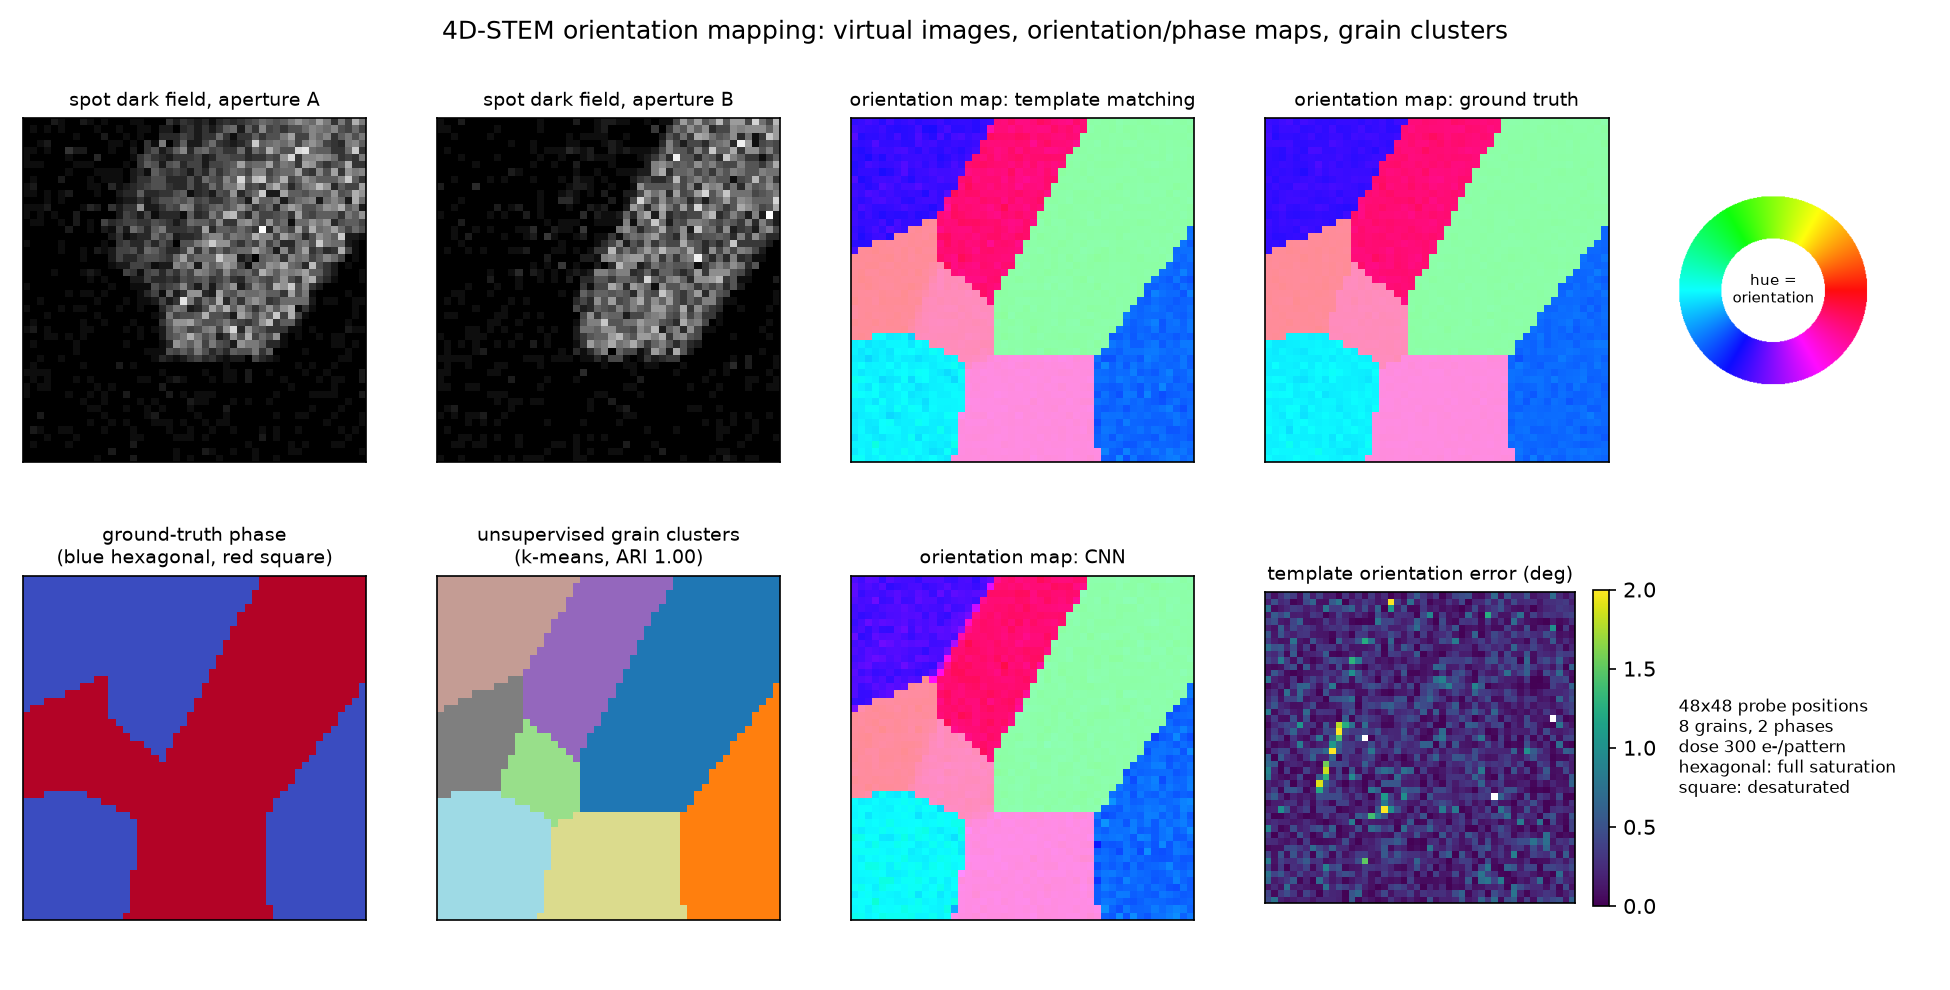
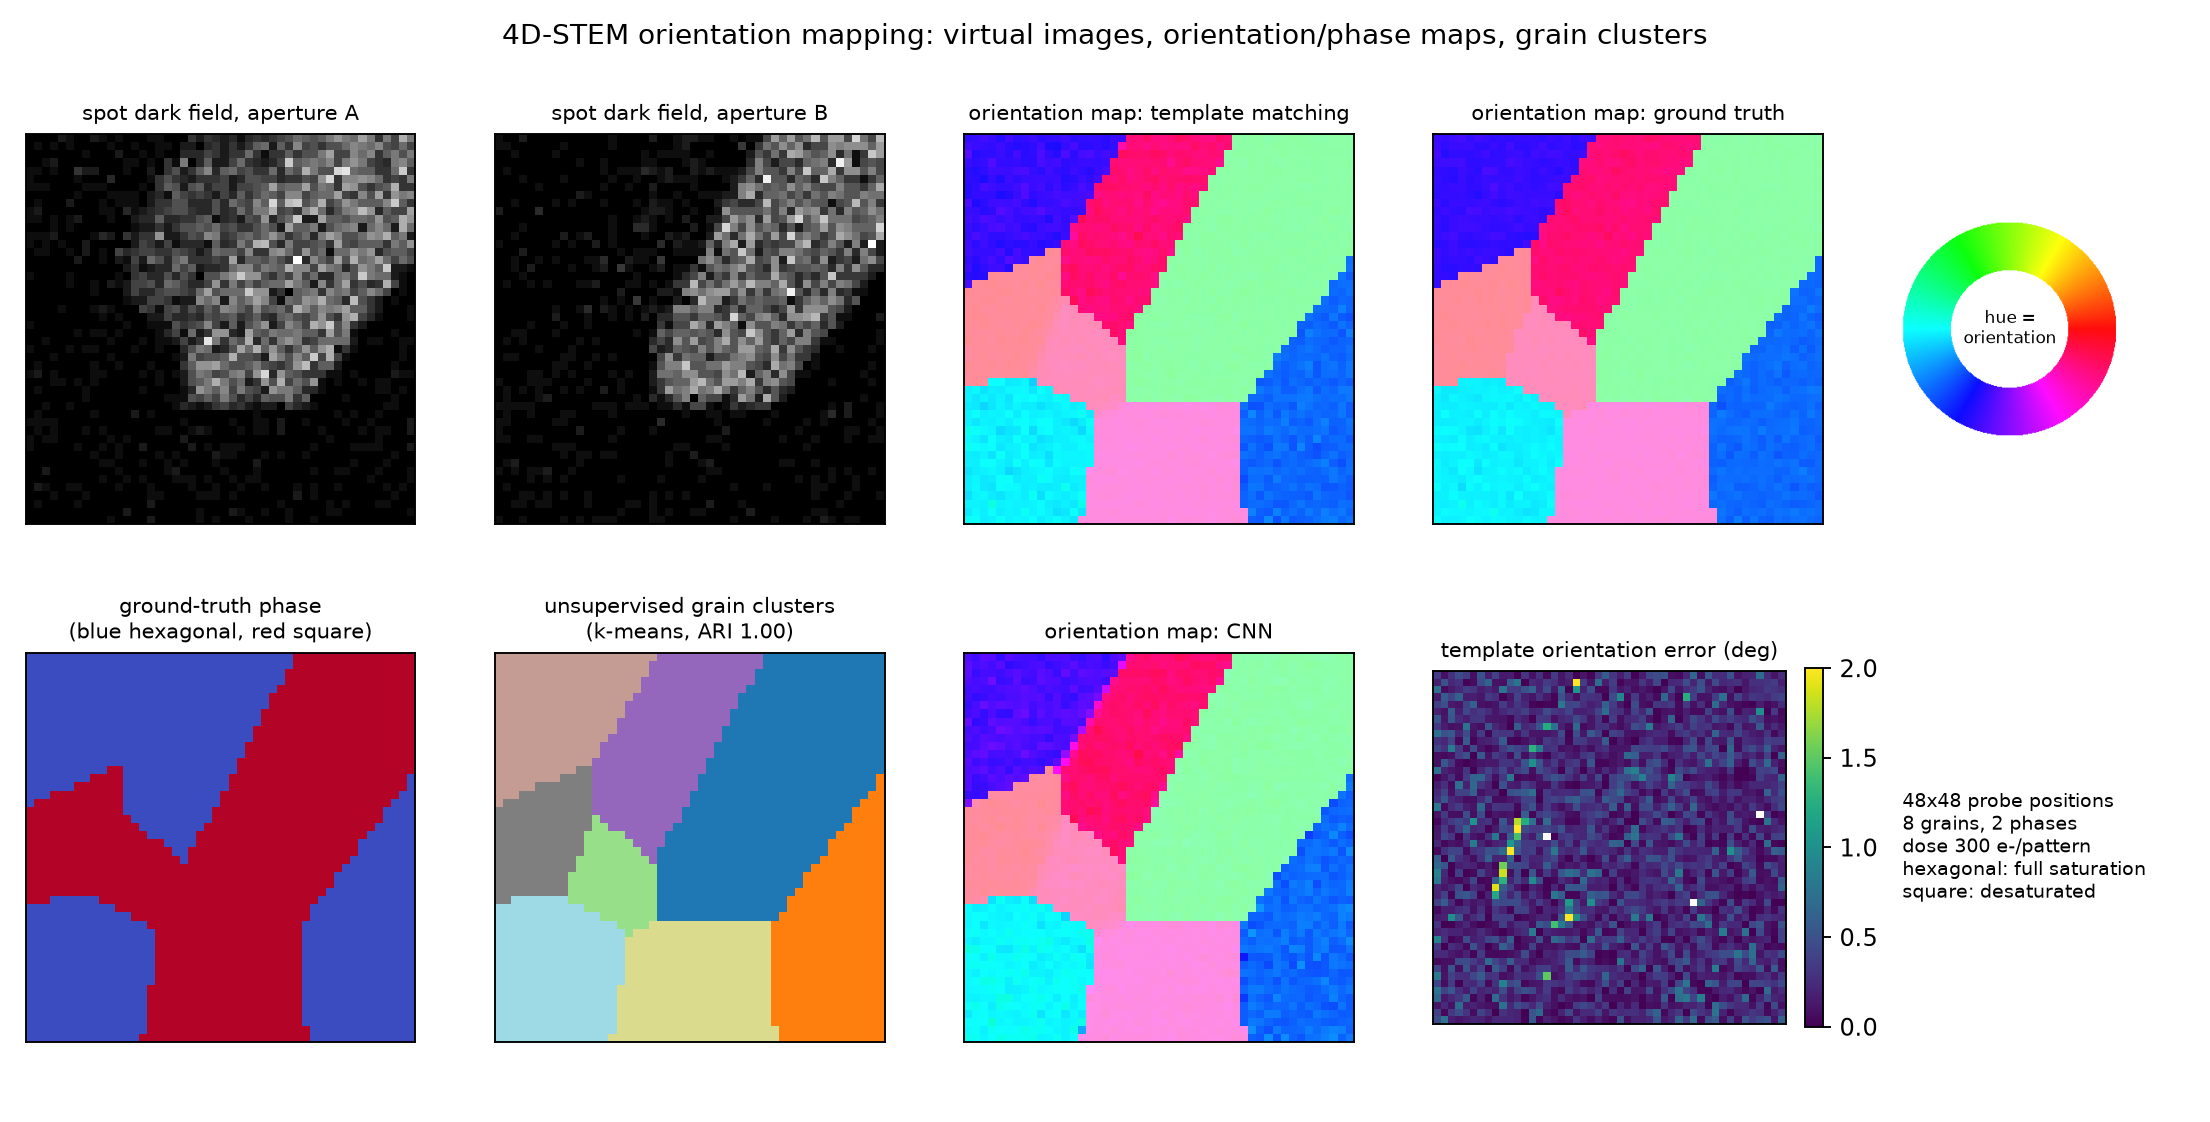
Re-export orientation-mapping hero at higher dpi as RGB
Render the hero at dpi 170 so its short side clears 1080 px for social
posts, and save as RGB (drop the opaque alpha channel). All panels, the
ARI value, orientation/phase maps and annotations are unchanged (verified
against the previous figure). No data, results, or metrics change.

diff --git a/scripts/make_figures.py b/scripts/make_figures.py
@@ -199,7 +199,9 @@ def hero_figure() -> None:
         fontsize=12,
     )
     fig.tight_layout()
-    fig.savefig(FIG / "hero.png", dpi=150)
+    # Higher dpi so the short side clears 1080 px for social posts; layout,
+    # colormaps and fonts are unchanged.
+    fig.savefig(FIG / "hero.png", dpi=170)
     plt.close(fig)
 
 